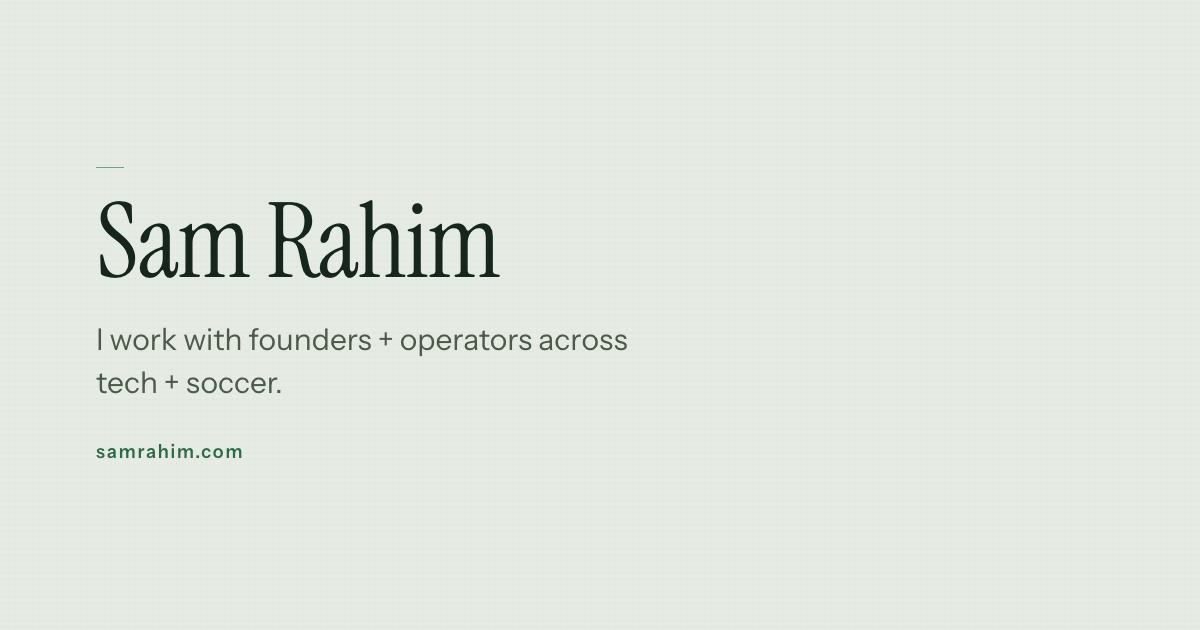
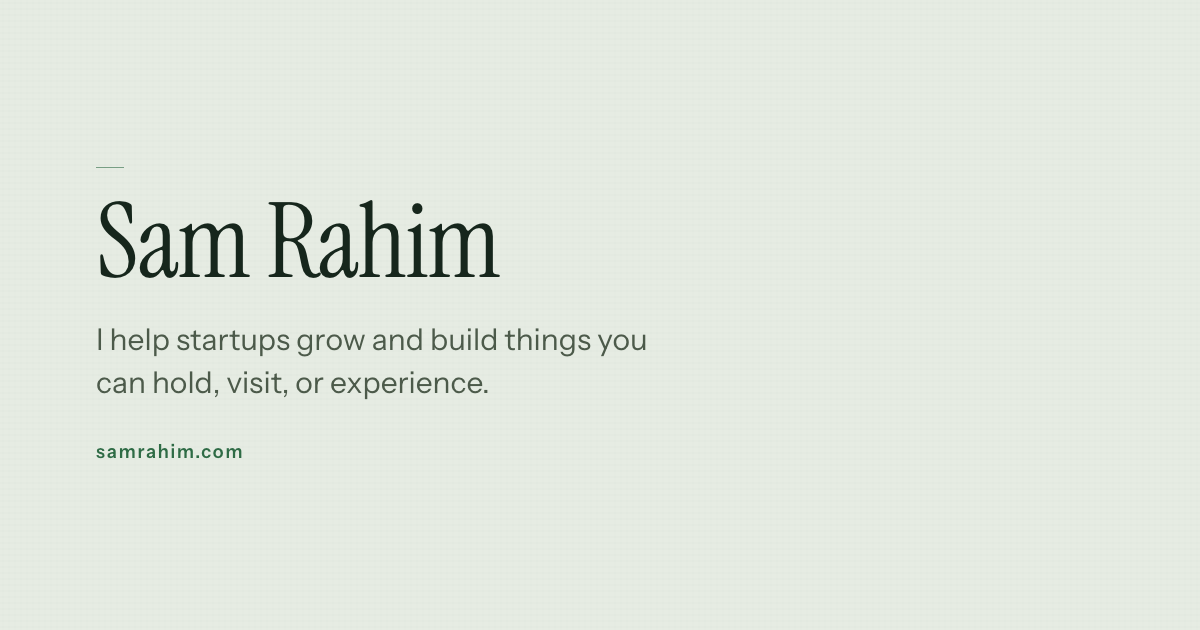
Update headline to startup growth and physical experiences

Changed region(s): [[0.0617, 0.5127, 0.5242, 0.6333]]

diff --git a/index.html b/index.html
@@ -4,9 +4,9 @@
   <meta charset="UTF-8">
   <meta name="viewport" content="width=device-width, initial-scale=1.0">
   <title>Sam Rahim</title>
-  <meta name="description" content="I work with founders + operators across tech + soccer.">
+  <meta name="description" content="I help startups grow and build things you can hold, visit, or experience.">
   <meta property="og:title" content="Sam Rahim">
-  <meta property="og:description" content="I work with founders + operators across tech + soccer.">
+  <meta property="og:description" content="I help startups grow and build things you can hold, visit, or experience.">
   <meta property="og:image" content="https://samrahim.com/og-image.png">
   <meta property="og:type" content="website">
   <meta name="twitter:card" content="summary_large_image">
@@ -589,7 +589,7 @@
 
     <div class="rule" role="presentation"></div>
 
-    <p class="bio">I work with founders&nbsp;+ operators across tech&nbsp;+&nbsp;soccer. Before going independent, I spent a decade at startups like <a href="https://instagram.com/streetfc" target="_blank" rel="noopener">Street FC</a>, <a href="https://instagram.com/switchyards" target="_blank" rel="noopener">Switchyards</a> and <a href="https://guild.com" target="_blank" rel="noopener">Guild</a>. I grew up in Southern California, spent a college summer on an archaeology dig in Belize, and now live in Orlando with my wife and our daughter, Sophia.</p>
+    <p class="bio">I help startups grow and build things you can hold, visit, or experience. <a href="https://instagram.com/streetfc" target="_blank" rel="noopener">Street FC</a> and <a href="https://instagram.com/switchyards" target="_blank" rel="noopener">Switchyards</a> were mine for the better part of a decade.</p>
 
     <div class="rule" role="presentation"></div>
 

diff --git a/og-image.html b/og-image.html
@@ -81,7 +81,7 @@
     <div class="text">
       <div class="stripe"></div>
       <h1 class="name">Sam Rahim</h1>
-      <p class="tagline">I work with founders + operators across tech + soccer.</p>
+      <p class="tagline">I help startups grow and build things you can hold, visit, or experience.</p>
       <p class="url">samrahim.com</p>
     </div>
   </div>
